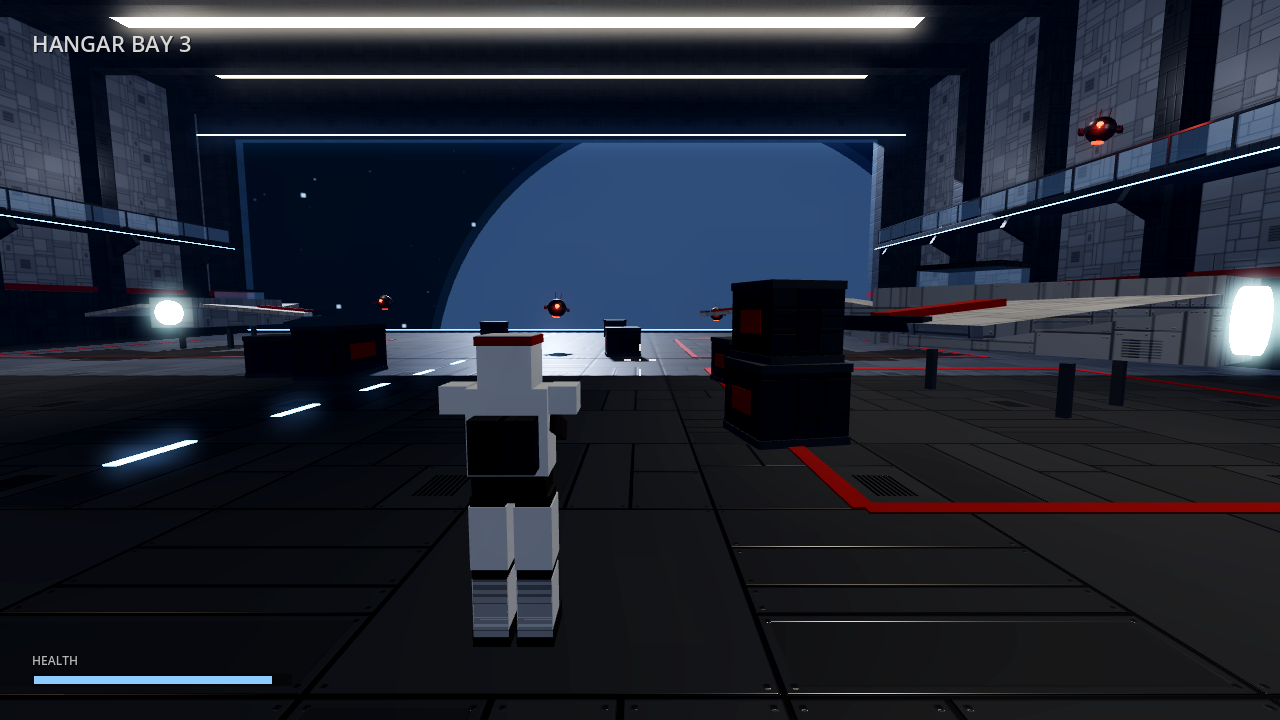
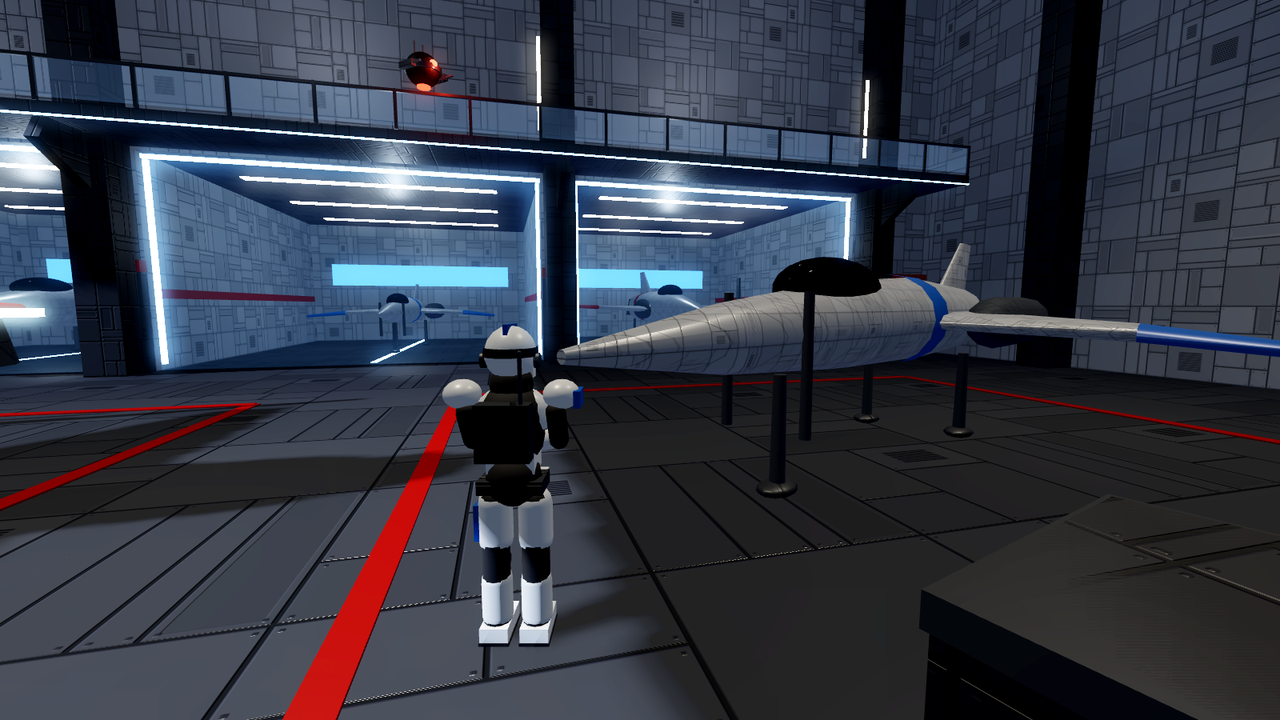
Fresh screenshots; --nohud dev flag for clean captures
Claude-Session: https://claude.ai/code/session_01Gw9hXnmGuq5995M22PhLpa

diff --git a/README.md b/README.md
@@ -14,7 +14,7 @@ Star Wars games:
 Every mesh, texture and name here is original. The panel textures, starfield
 and planet are generated in code at startup, and no assets are borrowed.
 
-![Hangar Bay 3](docs/hangar.png)
+![Dorsal Flight Deck](docs/flightdeck.png)
 
 ## Play
 
@@ -77,6 +77,8 @@ Enemies:
   sensor bar) fight in squads that fire together in volleys.
 - **Enemy fighters** loop around the ship and strafe the flight deck.
 
+![Hangar Bay 3 and its compartments](docs/hangar.png)
+![The Bulwark from outside](docs/exterior.png)
 ![Port Service Corridor](docs/corridor.png)
 ![Command Bridge](docs/bridge.png)
 
